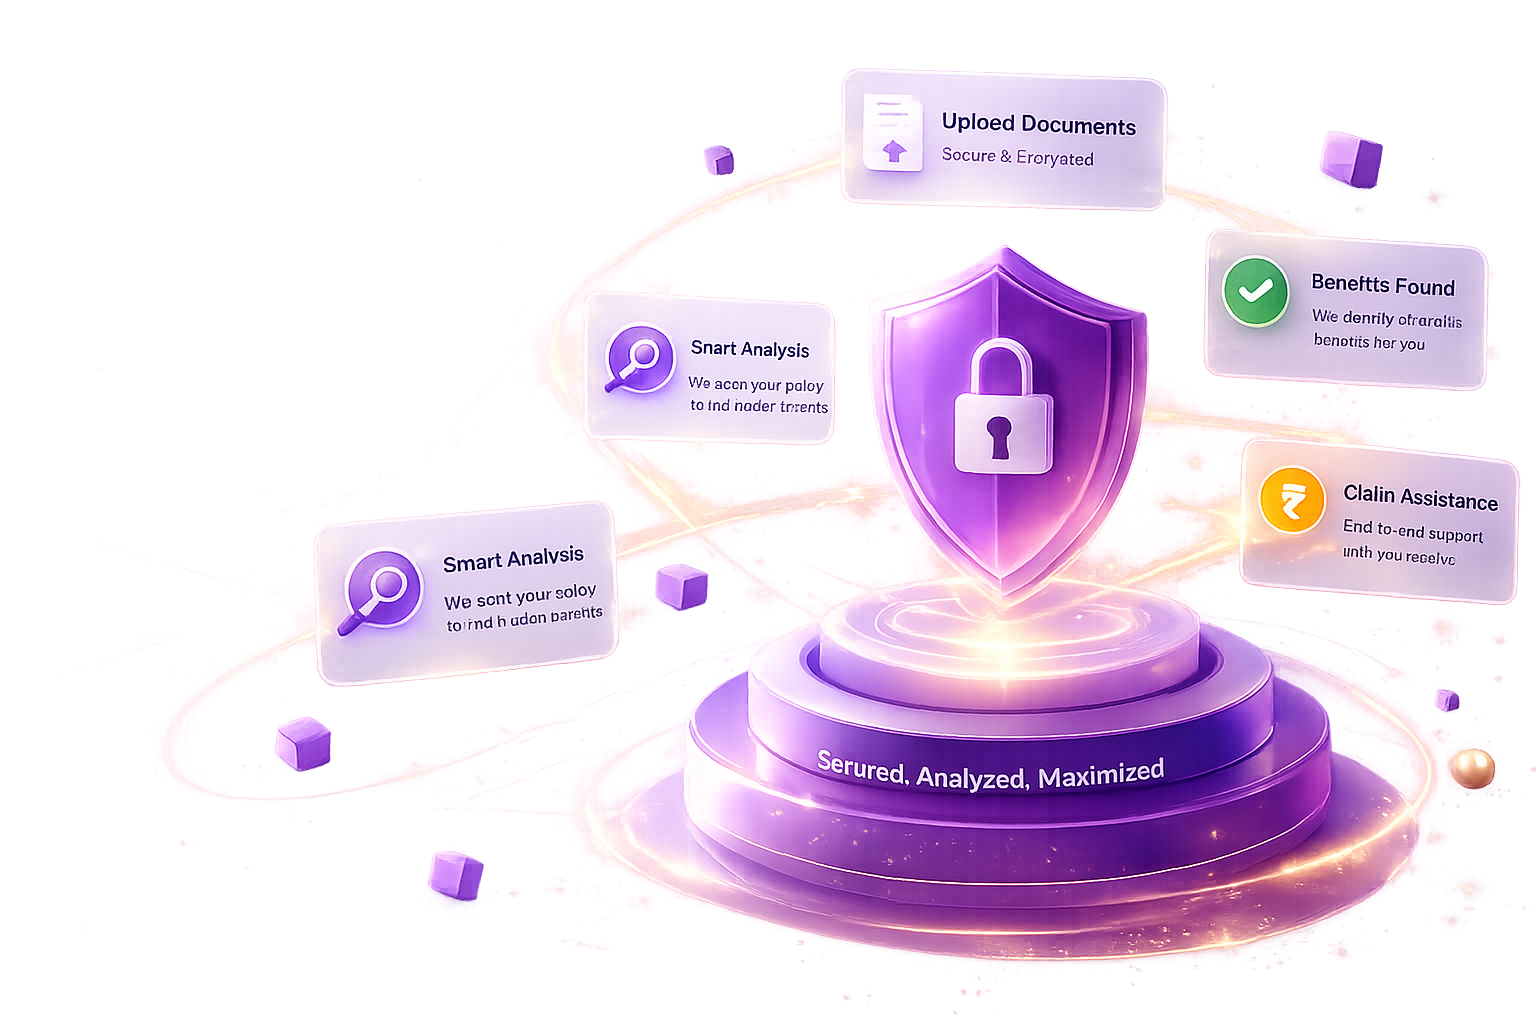
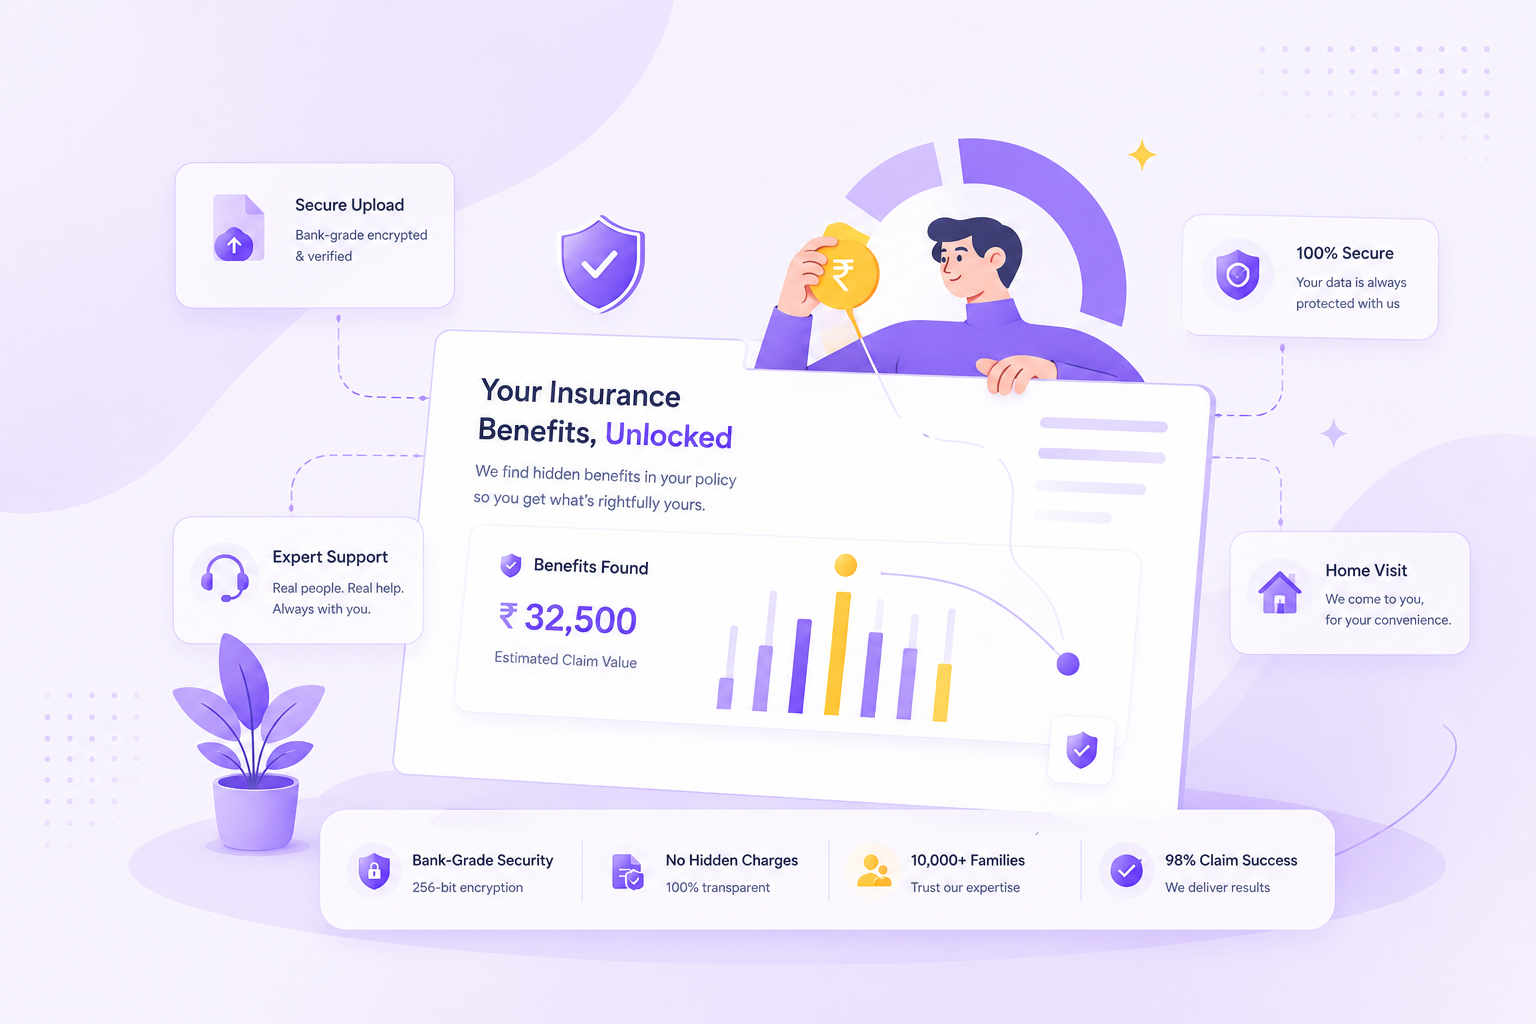
fix: Renamed card title to align grid text content

diff --git a/src/pages/home.js b/src/pages/home.js
@@ -36,7 +36,7 @@ export function homePage() {
       <div class="grid grid-4">
         ${[
           { icon: 'helpCircle', color: '', title: 'Confusing Policies', text: 'Complex jargon, exclusions, and fine print make it nearly impossible to understand what you\'re covered for.' },
-          { icon: 'dollar', color: 'gold', title: 'Missed Reimbursements', text: 'Thousands of rupees in eligible claims go uncollected every year because people don\'t know what to file.' },
+          { icon: 'dollar', color: 'gold', title: 'Unclaimed Benefits', text: 'Thousands of rupees in eligible claims go uncollected every year because people don\'t know what to file.' },
           { icon: 'doc', color: 'pink', title: 'Rejected Claims', text: 'Incorrect documentation or missed deadlines lead to claim rejections that could have been avoided.' },
           { icon: 'eye', color: 'teal', title: 'No Clarity on Process', text: 'Most people don\'t know the right steps, required documents, or timelines for filing claims.' },
         ].map((c, i) => `
